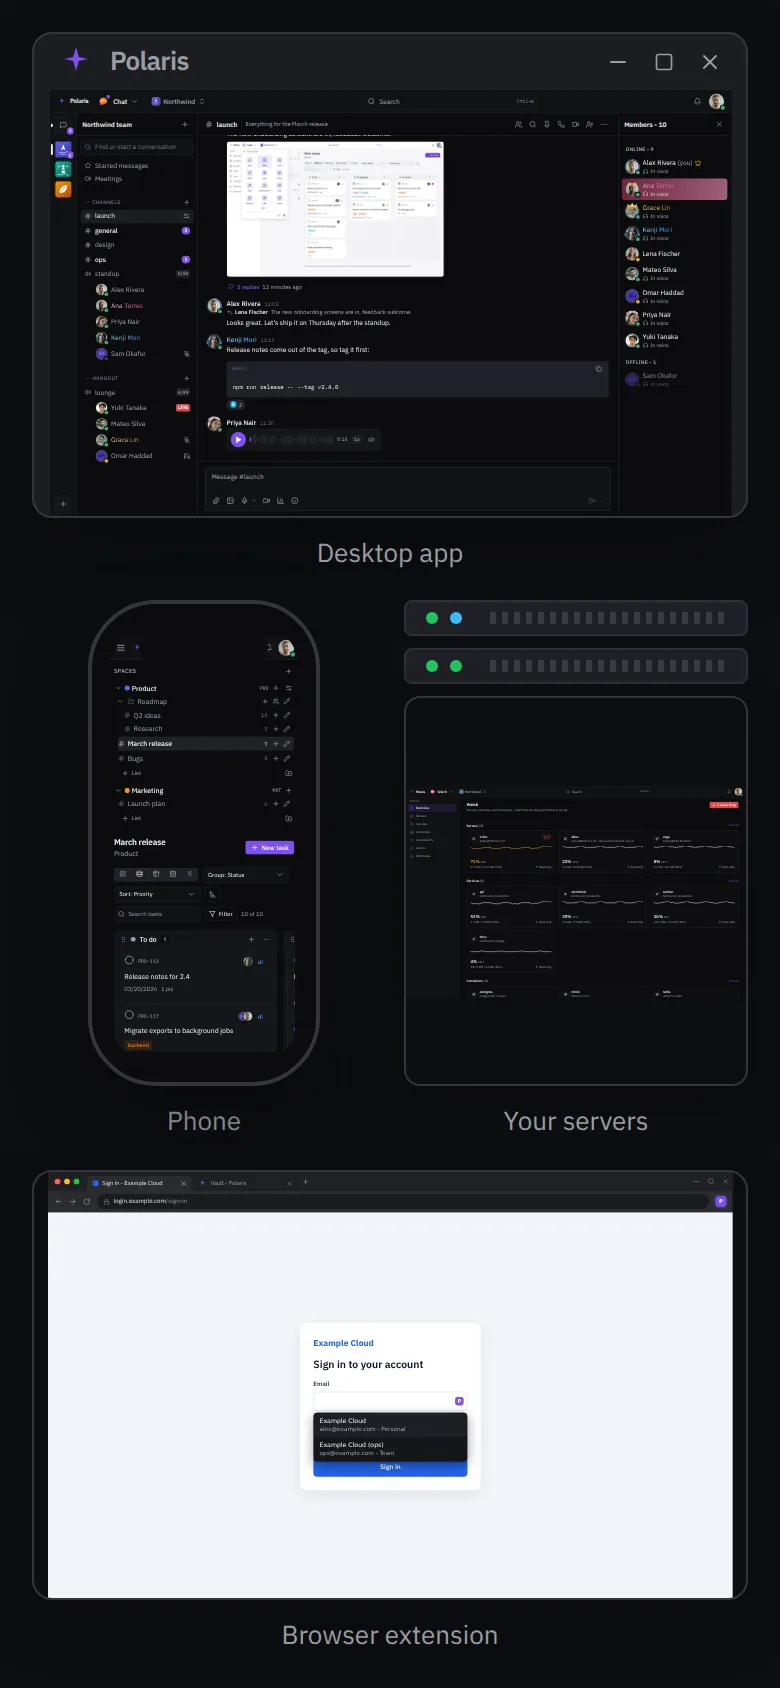
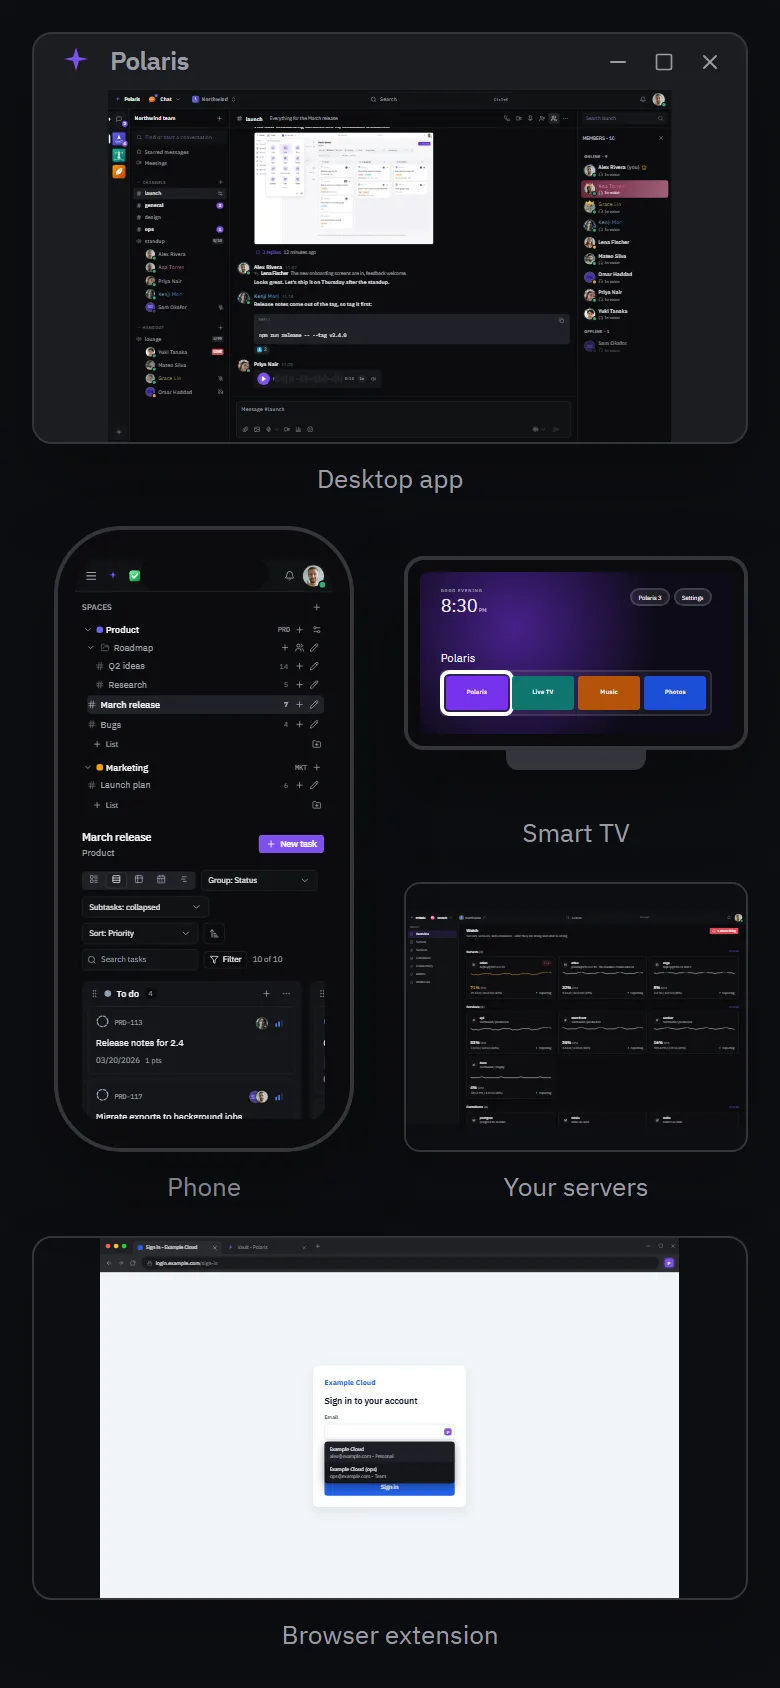
📝 docs(readme): the ecosystem picture shows the TV and loses the stray rack bars

diff --git a/dashboard/scripts/readme-media/scenes/ecosystem.tsx b/dashboard/scripts/readme-media/scenes/ecosystem.tsx
@@ -1,9 +1,11 @@
 /**
  * One Polaris on every device it has a client for: the desktop app, a phone
- * (the installable web app), the servers it runs on, and the browser
- * extension. Each screen is another scene, drawn in a frame of its own at that
- * device's size, so the phone shows the phone layout. There is no TV client,
- * so there is no TV here.
+ * (the installable web app), the servers it runs on, the browser extension and
+ * a TV. Each screen is another scene, drawn in a frame of its own at that
+ * device's size, so the phone shows the phone layout. The TV is the Polaris TV
+ * launcher's home (tv/launcher, `MainActivity`): greeting, clock and date, the
+ * Polaris pill with the account's unread count beside Settings, then a row of
+ * apps. There is no watch client, so there is no watch here.
  */
 
 import type { ReactNode } from "react";
@@ -150,45 +152,11 @@ function Phone({ ctx, scene }: { ctx: SceneContext; scene: string }) {
     );
 }
 
-/** A server: the front of a rack unit, and the screen Polaris watches it from. */
+/** A server: the screen Polaris watches it from. */
 function Server({ ctx, scene }: { ctx: SceneContext; scene: string }) {
     const tone = tones(ctx);
     return (
-        <div style={{ width: "100%", display: "flex", flexDirection: "column", gap: 6 }}>
-            {[0, 1].map((unit) => (
-                <div
-                    key={unit}
-                    style={{
-                        display: "flex",
-                        alignItems: "center",
-                        gap: 6,
-                        height: 18,
-                        padding: "0 10px",
-                        borderRadius: 4,
-                        background: "#1f2126",
-                        border: "1px solid #2e3036"
-                    }}
-                >
-                    <i style={{ width: 6, height: 6, borderRadius: 9, background: "#22c55e" }} />
-                    <i
-                        style={{
-                            width: 6,
-                            height: 6,
-                            borderRadius: 9,
-                            background: unit ? "#22c55e" : "#38bdf8"
-                        }}
-                    />
-                    <span
-                        style={{
-                            flex: 1,
-                            height: 6,
-                            marginLeft: 8,
-                            background:
-                                "repeating-linear-gradient(90deg, #3a3d44 0 3px, transparent 3px 6px)"
-                        }}
-                    />
-                </div>
-            ))}
+        <div style={{ width: "100%", display: "flex", flexDirection: "column" }}>
             <div
                 style={{
                     flex: 1,
@@ -201,6 +169,120 @@ function Server({ ctx, scene }: { ctx: SceneContext; scene: string }) {
             >
                 <SceneWindow ctx={ctx} scene={scene} {...DESKTOP} title={scene} />
             </div>
+        </div>
+    );
+}
+
+/** A TV on its stand, showing the Polaris TV launcher's home. */
+function Tv({ ctx }: { ctx: SceneContext }) {
+    const tone = tones(ctx);
+    const apps = [
+        ["#7632ec", ctx.say("Polaris", "Polaris")],
+        ["#0f766e", ctx.say("Live TV", "TV en directo")],
+        ["#b45309", ctx.say("Music", "Música")],
+        ["#1d4ed8", ctx.say("Photos", "Fotos")]
+    ] as const;
+    const pill = {
+        display: "flex",
+        alignItems: "center",
+        gap: "0.8cqw",
+        padding: "0.9cqw 2.2cqw",
+        borderRadius: 99,
+        background: "rgb(255 255 255 / 0.08)",
+        border: "1px solid rgb(255 255 255 / 0.14)",
+        fontSize: "2.2cqw",
+        color: "#f1f1f3"
+    } as const;
+    return (
+        <div
+            style={{
+                width: "100%",
+                height: "100%",
+                containerType: "size",
+                display: "flex",
+                flexDirection: "column",
+                alignItems: "center",
+                justifyContent: "center"
+            }}
+        >
+            <div
+                style={{
+                    width: "min(100cqw, calc((100cqh - 18px) * 16 / 9))",
+                    aspectRatio: "16 / 9",
+                    boxSizing: "border-box",
+                    padding: 6,
+                    borderRadius: 10,
+                    background: "#0b0b0d",
+                    border: `2px solid ${tone.edge}`,
+                    boxShadow: "0 18px 40px rgb(0 0 0 / 0.3)",
+                    display: "flex"
+                }}
+            >
+                <div
+                    style={{
+                        flex: 1,
+                        minWidth: 0,
+                        containerType: "inline-size",
+                        borderRadius: 4,
+                        overflow: "hidden",
+                        padding: "5cqw 6cqw",
+                        display: "flex",
+                        flexDirection: "column",
+                        color: "#f1f1f3",
+                        background:
+                            "radial-gradient(circle at 30% 35%, rgb(118 50 236 / 0.55), transparent 60%), #0d0b16"
+                    }}
+                >
+                    <div style={{ display: "flex", alignItems: "flex-start", gap: "1.6cqw" }}>
+                        <div style={{ flex: 1 }}>
+                            <div style={{ fontSize: "1.6cqw", letterSpacing: "0.2em", opacity: 0.6 }}>
+                                {ctx.say("GOOD EVENING", "BUENAS TARDES")}
+                            </div>
+                            <div style={{ fontSize: "6.5cqw", fontWeight: 300, lineHeight: 1.1 }}>
+                                {ctx.say("8:30", "20:30")}
+                                <span style={{ fontSize: "2cqw", marginLeft: "0.6cqw", opacity: 0.7 }}>
+                                    {ctx.say("PM", "")}
+                                </span>
+                            </div>
+                        </div>
+                        <span style={pill}>Polaris 3</span>
+                        <span style={pill}>{ctx.say("Settings", "Ajustes")}</span>
+                    </div>
+                    <div style={{ flex: 1 }} />
+                    <div style={{ fontSize: "4.2cqw", marginBottom: "1.6cqw" }}>{apps[0][1]}</div>
+                    <div
+                        style={{
+                            display: "grid",
+                            gridTemplateColumns: "repeat(4, 1fr)",
+                            gap: "1.6cqw",
+                            padding: "1.2cqw",
+                            borderRadius: "1.8cqw",
+                            background: "rgb(255 255 255 / 0.05)",
+                            border: "1px solid rgb(255 255 255 / 0.1)"
+                        }}
+                    >
+                        {apps.map(([color, name], index) => (
+                            <div
+                                key={name}
+                                style={{
+                                    aspectRatio: "16 / 9",
+                                    borderRadius: "1.2cqw",
+                                    display: "grid",
+                                    placeItems: "center",
+                                    fontSize: "2.4cqw",
+                                    fontWeight: 600,
+                                    background: color,
+                                    outline: index === 0 ? "2px solid #ffffff" : "none",
+                                    outlineOffset: 1
+                                }}
+                            >
+                                {name}
+                            </div>
+                        ))}
+                    </div>
+                </div>
+            </div>
+            <i style={{ width: 70, height: 10, background: tone.edge, borderRadius: "0 0 6px 6px" }} />
         </div>
     );
 }
@@ -235,11 +317,11 @@ function Ecosystem({ ctx }: { ctx: SceneContext }) {
                 padding: phone ? 16 : 40,
                 background: tones(ctx).page,
                 color: tones(ctx).text,
-                gridTemplateColumns: phone ? "1fr 1fr" : "1.6fr 1fr 0.62fr",
-                gridTemplateRows: phone ? "1fr 1fr 0.9fr" : "1.25fr 1fr",
+                gridTemplateColumns: phone ? "1fr 1fr" : "1.3fr 1fr 0.62fr",
+                gridTemplateRows: phone ? "1fr 0.7fr 0.7fr 0.9fr" : "1.15fr 1fr",
                 gridTemplateAreas: phone
-                    ? '"app app" "phone server" "extension extension"'
-                    : '"app app phone" "server extension phone"'
+                    ? '"app app" "phone tv" "phone server" "extension extension"'
+                    : '"app tv phone" "server extension phone"'
             }}
         >
             <Tile ctx={ctx} area="app" name={ctx.say("Desktop app", "App de escritorio")}>
@@ -247,6 +329,9 @@ function Ecosystem({ ctx }: { ctx: SceneContext }) {
             </Tile>
             <Tile ctx={ctx} area="phone" name={ctx.say("Phone", "Móvil")}>
                 <Phone ctx={ctx} scene="tasks" />
+            </Tile>
+            <Tile ctx={ctx} area="tv" name={ctx.say("Smart TV", "Smart TV")}>
+                <Tv ctx={ctx} />
             </Tile>
             <Tile ctx={ctx} area="server" name={ctx.say("Your servers", "Tus servidores")}>
                 <Server ctx={ctx} scene="watch" />

diff --git a/dashboard/scripts/readme-media/scenes/chat.tsx b/dashboard/scripts/readme-media/scenes/chat.tsx
@@ -53,9 +53,17 @@ function post() {
     sendFrame(STREAM, { kind: "posted", seq: delivered, channels: [CHANNEL_ID] });
 }
 
-/** What a chat screen reads through routes (`chat-polls.ts`, the soundboard picker). */
+/** What a chat screen reads through routes (`chat-polls.ts`, the soundboard picker,
+ *  and the conversation list, which is a plain route of its own). */
 export function chatApi(ctx: SceneContext) {
     return {
+        "GET /api/chat/lists": () => ({
+            channels: chatChannels(ctx),
+            spaces: chatSpaces(ctx),
+            categories: chatCategories(ctx),
+            blocked: [],
+            friends: []
+        }),
         "GET /api/chat/voice-presence": () => ({ inRoom: voicePresence() }),
         "GET /api/chat/channels/:id/live-call": () => ({ live: null }),
         "GET /api/chat/meetings/:id/soundboard": () => ({ board: callSoundboard(ctx) }),
@@ -77,6 +85,7 @@ export function chatActions(ctx: SceneContext, channelId: string) {
         listChannelsAction: () => ({ channels }),
         chatRulesAction: () => ({ rules: {} }),
         callsUnavailableAction: () => null,
+        callsOutsideAction: () => null,
         readChannelAction: () => ({
             page: { messages: conversation(ctx, channelId), olderThan: null },
             channel: channels.find((one) => one.id === channelId)

diff --git a/dashboard/scripts/readme-media/runtime/poll-routes.ts b/dashboard/scripts/readme-media/runtime/poll-routes.ts
@@ -21,6 +21,7 @@ const POLL_ROUTES: Record<string, { action: string; args: readonly string[] }> =
         args: ["installId"]
     },
     "/api/chat/calls-unavailable": { action: "callsUnavailableAction", args: [] },
+    "/api/chat/calls-outside": { action: "callsOutsideAction", args: [] },
     "/api/chat/elsewhere": { action: "conversationsElsewhereAction", args: [] },
     "/api/chat/meeting-list": { action: "listMeetingsAction", args: [] },
     "/api/chat/profile": { action: "profileAction", args: ["channelId", "userId"] },
